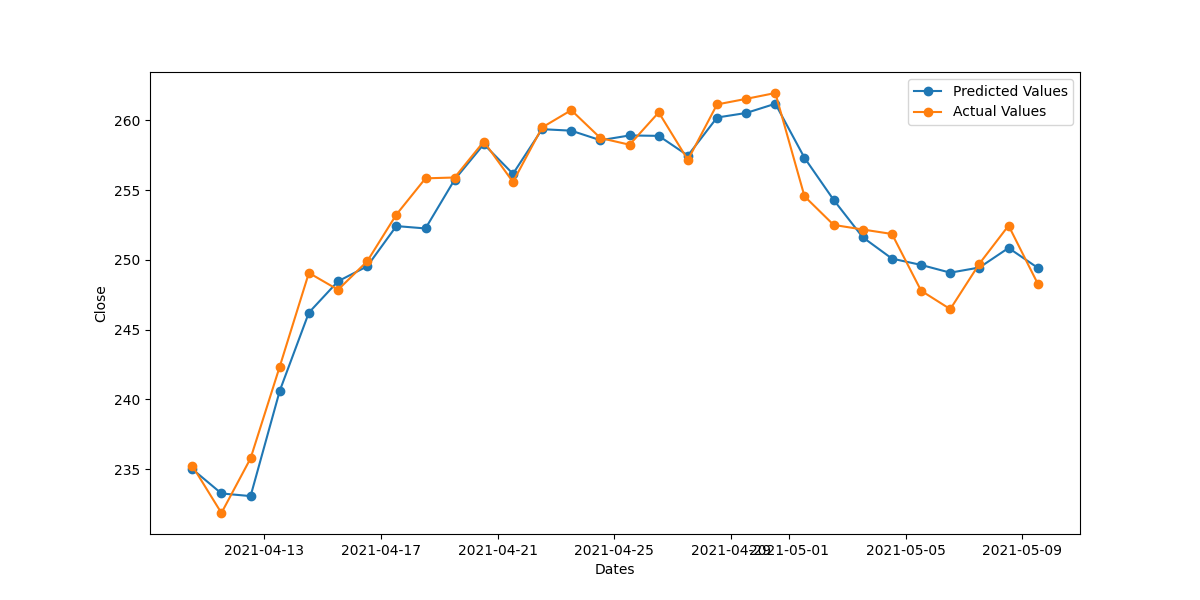
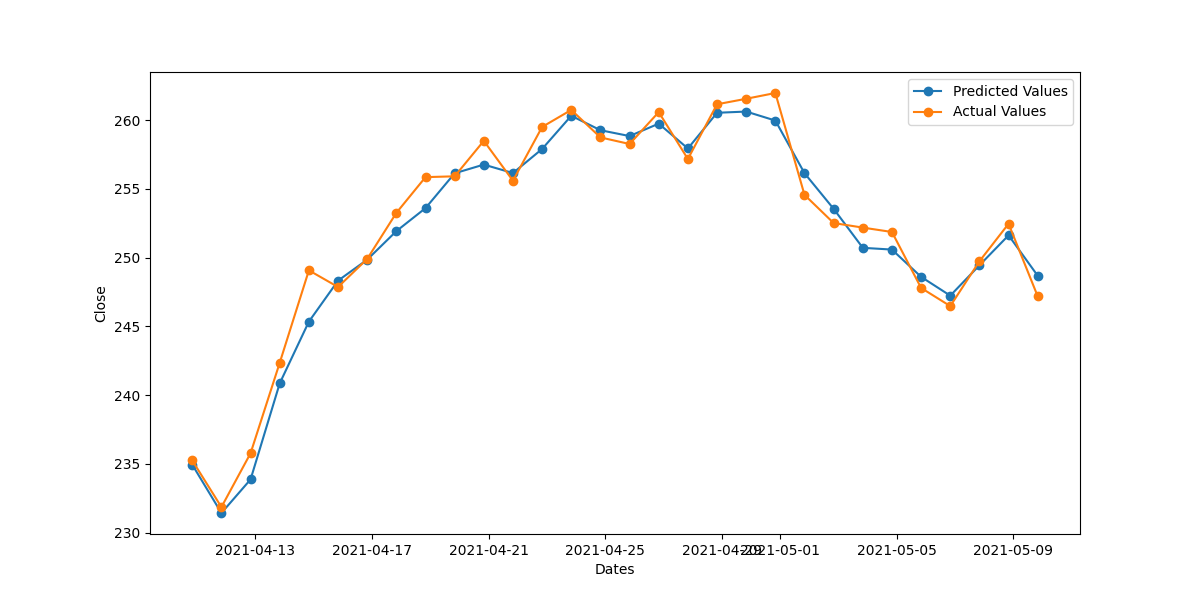
Minor changes

diff --git a/randomForest/randomForest.py b/randomForest/randomForest.py
@@ -36,13 +36,14 @@ class StockPrediction:
         X = X_scaled
         Y = df['prediction']
 
-        X_train, X_test, Y_train, Y_test = train_test_split(
-            X, Y, test_size=nodays, random_state=0)
-
+        split = np.random.rand(X.shape[0]) < len(X)-forecast_time
+        X_train = X[split]
+        Y_train = Y[split]
         X_prediction = X[-forecast_time:]
         Y_test = Y[-forecast_time:]
 
-        regressor = RandomForestRegressor(n_estimators=10, random_state=0)
+        regressor = RandomForestRegressor(
+            n_estimators=10, criterion='mae', random_state=0)
         regressor.fit(X_train, Y_train)
 
         # df2 = pd.DataFrame({'Actual': Y_test, 'Predicted': prediction})
@@ -81,8 +82,8 @@ class StockPrediction:
         plt.legend(["Predicted Values", "Actual Values"])
         # plt.xlabel('Days in future')
         # plt.ylabel('Predicted Close')
-        plt.show()
-        # plt.savefig('Predicted VS Actual')
+        # plt.show()
+        plt.savefig('Predicted VS Actual')
 
         # if (float(prediction[4]) > (float(last_row['Close'])) + 1):
         # output = ("\n\nStock:" + str(stock) + "\nPrior Close:\n" + str(last_row['Close']) + "\n\nPrediction in 1 Day: " + str(
@@ -93,7 +94,7 @@ class StockPrediction:
             mean_of_historical_close_avg = historical_close_avg.mean()
             if next_day_prediction > mean_of_historical_close_avg:
                 return 'buy'
-            elif next_day_prediction > mean_of_historical_close_avg:
+            elif next_day_prediction < mean_of_historical_close_avg:
                 return 'sell'
             else:
                 return 'hold'
